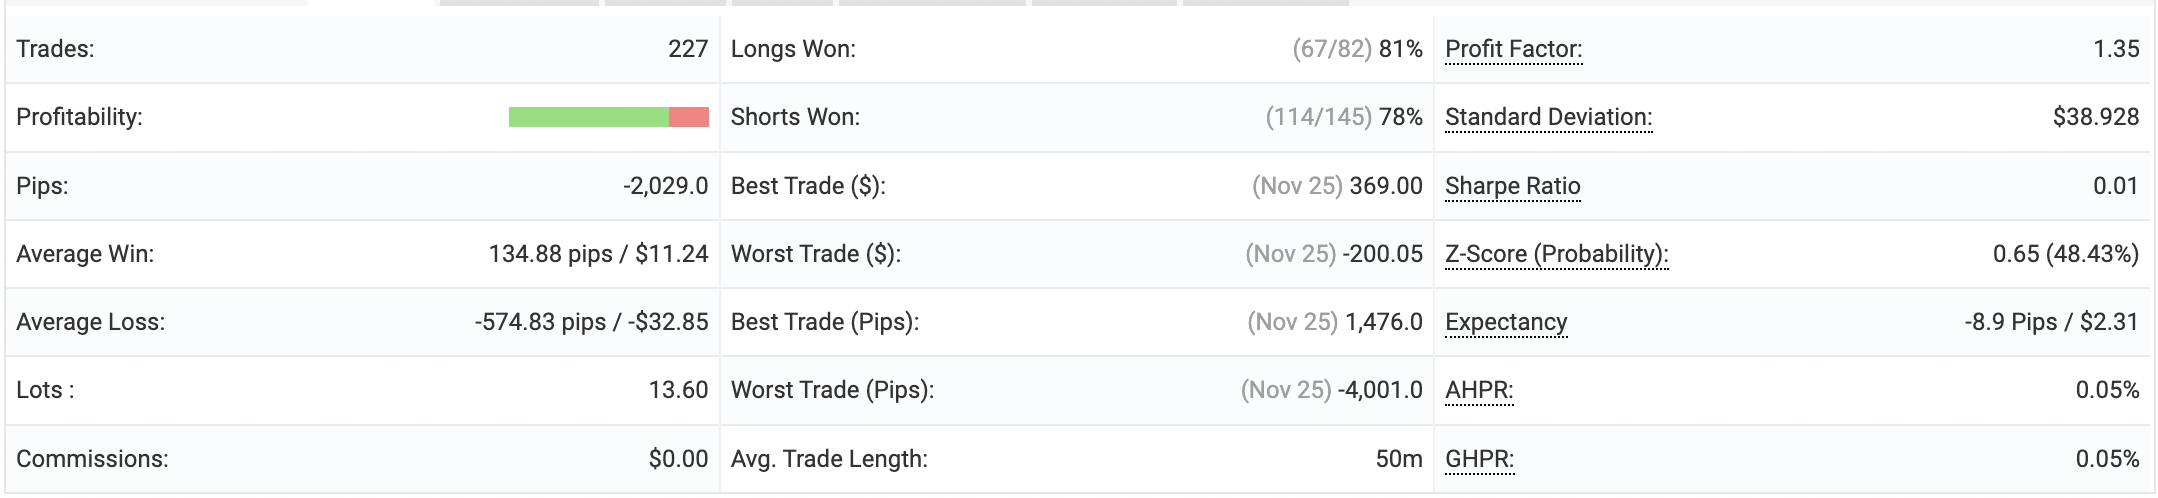
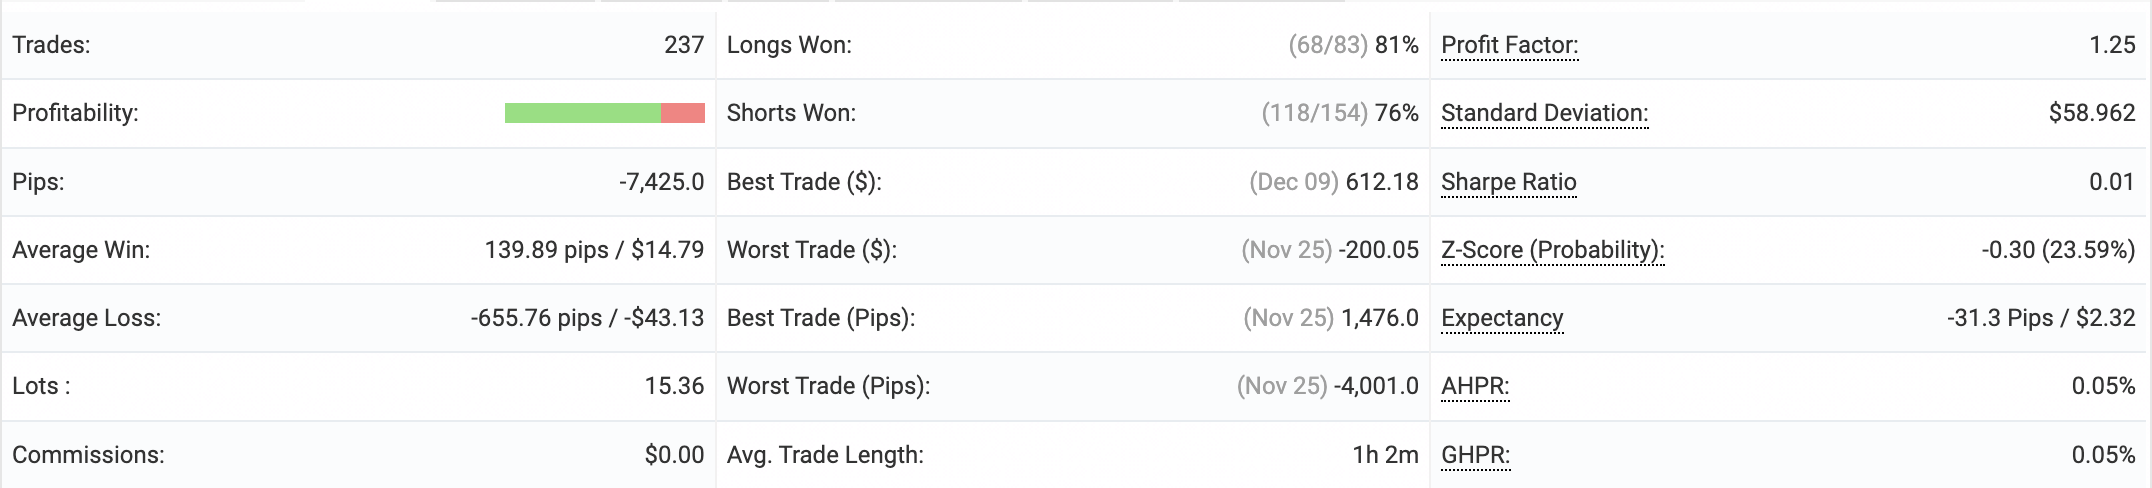
Dec 9 updates

diff --git a/index.html b/index.html
@@ -469,11 +469,11 @@ j=d.createElement(s),dl=l!='dataLayer'?'&l='+l:'';j.async=true;j.src=
             <h3>LiteFinance Account Performance</h3>
             <img src="litefinance-current-performance.png" alt="LiteFinance Account Performance Graph">
             <p style="text-align: center; font-size: 0.9em; color: #555;">
-                Updated: December 7, 2024 — Covers performance from November 12 to December 6, 2024.
+                Updated: December 10, 2024 — Covers performance from November 12 to December 9, 2024.
             </p>
             <img src="litefinance-current-performance-metrics.png" alt="LiteFinance Account Performance Metrics">
             <p style="text-align: center; font-size: 0.9em; color: #555;">
-                Updated: December 7, 2024 — Covers performance from November 12 to December 6, 2024.
+                Updated: December 10, 2024 — Covers performance from November 12 to December 9, 2024.
             </p>
             <table>
                 <tr>
@@ -482,7 +482,7 @@ j=d.createElement(s),dl=l!='dataLayer'?'&l='+l:'';j.async=true;j.src=
                 </tr>
                 <tr>
                     <td>Gain</td>
-                    <td>+10.76%</td>
+                    <td>+11.30%</td>
                 </tr>
                 <tr>
                     <td>Daily Profit</td>
@@ -490,15 +490,15 @@ j=d.createElement(s),dl=l!='dataLayer'?'&l='+l:'';j.async=true;j.src=
                 </tr>
                 <tr>
                     <td>Monthly Profit</td>
-                    <td>+10.76%</td>
+                    <td>+11.30%</td>
                 </tr>
                 <tr>
                     <td>Balance</td>
-                    <td>$5,492.99 (Cents)</td>
+                    <td>$5,519.75 (Cents)</td>
                 </tr>
                 <tr>
                     <td>Total Trades</td>
-                    <td>227</td>
+                    <td>237</td>
                 </tr>
                 <tr>
                     <td>Profitability</td>
@@ -506,23 +506,23 @@ j=d.createElement(s),dl=l!='dataLayer'?'&l='+l:'';j.async=true;j.src=
                 </tr>
                 <tr>
                     <td>Pips</td>
-                    <td>-2,029.0</td>
+                    <td>-7,425.0</td>
                 </tr>
                 <tr>
                     <td>Average Win</td>
-                    <td>134.88 pips / $11.24</td>
+                    <td>139.89 pips / $14.79</td>
                 </tr>
                 <tr>
                     <td>Average Loss</td>
-                    <td>-574.83 pips / -$32.85</td>
+                    <td>-655.76 pips / -$43.13</td>
                 </tr>
                 <tr>
                     <td>Lots Traded</td>
-                    <td>13.60</td>
+                    <td>15.36</td>
                 </tr>
                 <tr>
                     <td>Profit Factor</td>
-                    <td>1.35</td>
+                    <td>1.25</td>
                 </tr>
                 <tr>
                     <td>Sharpe Ratio</td>
@@ -530,11 +530,11 @@ j=d.createElement(s),dl=l!='dataLayer'?'&l='+l:'';j.async=true;j.src=
                 </tr>
                 <tr>
                     <td>Expectancy</td>
-                    <td>1,476.0</td>
+                    <td>612.18</td>
                 </tr>
                 <tr>
                     <td>Average Trade Length</td>
-                    <td>50m</td>
+                    <td>1h 2m</td>
                 </tr>
             </table>
         </div>
@@ -544,11 +544,11 @@ j=d.createElement(s),dl=l!='dataLayer'?'&l='+l:'';j.async=true;j.src=
             <h3>RoboForex Account Performance</h3>
             <img src="roboforex-current-performance.png" alt="RoboForex Account Performance Graph">
             <p style="text-align: center; font-size: 0.9em; color: #555;"></p>
-                Updated: December 7, 2024 — Covers performance from November 16 to December 6, 2024.
+                Updated: December 10, 2024 — Covers performance from November 16 to December 9, 2024.
             </p>
             <img src="roboforex-current-performance-metrics.png" alt="RoboForex Account Performance Metrics">
             <p style="text-align: center; font-size: 0.9em; color: #555;">
-                Updated: December 7, 2024 — Covers performance from November 16 to December 6, 2024.
+                Updated: December 10, 2024 — Covers performance from November 16 to December 9, 2024.
             </p>
             <table>
                 <tr>
@@ -557,23 +557,23 @@ j=d.createElement(s),dl=l!='dataLayer'?'&l='+l:'';j.async=true;j.src=
                 </tr>
                 <tr>
                     <td>Gain</td>
-                    <td>+15.64%</td>
+                    <td>+16.24%</td>
                 </tr>
                 <tr>
                     <td>Daily Profit</td>
-                    <td>0.69%</td>
+                    <td>0.63%</td>
                 </tr>
                 <tr>
                     <td>Monthly Profit</td>
-                    <td>+15.64%</td>
+                    <td>+16.24%</td>
                 </tr>
                 <tr>
                     <td>Balance</td>
-                    <td>$11,564.62 (Cents)</td>
+                    <td>$11,624.49 (Cents)</td>
                 </tr>
                 <tr>
                     <td>Total Trades</td>
-                    <td>153</td>
+                    <td>163</td>
                 </tr>
                 <tr>
                     <td>Profitability</td>
@@ -581,23 +581,35 @@ j=d.createElement(s),dl=l!='dataLayer'?'&l='+l:'';j.async=true;j.src=
                 </tr>
                 <tr>
                     <td>Pips</td>
-                    <td>7,191.0</td>
+                    <td>3,667.0</td>
                 </tr>
                 <tr>
                     <td>Average Win</td>
-                    <td>154.10 pips / $22.64</td>
+                    <td>159.61 pips / $28.66</td>
                 </tr>
                 <tr>
                     <td>Average Loss</td>
-                    <td>-528.67 pips / -$56.53</td>
+                    <td>-638.57 pips / -$80.19</td>
                 </tr>
                 <tr>
                     <td>Lots Traded</td>
-                    <td>18.19</td>
+                    <td>20.93</td>
                 </tr>
                 <tr>
                     <td>Profit Factor</td>
-                    <td>2.15</td>
+                    <td>1.72</td>
+                </tr>
+                <tr>
+                    <td>Sharpe Ratio</td>
+                    <td>0.01</td>
+                </tr>
+                <tr>
+                    <td>Expectancy</td>
+                    <td>1,567.0</td>
+                </tr>
+                <tr>
+                    <td>Average Trade Length</td>
+                    <td>2h 13m</td>
                 </tr>
             </table>
         </div>
